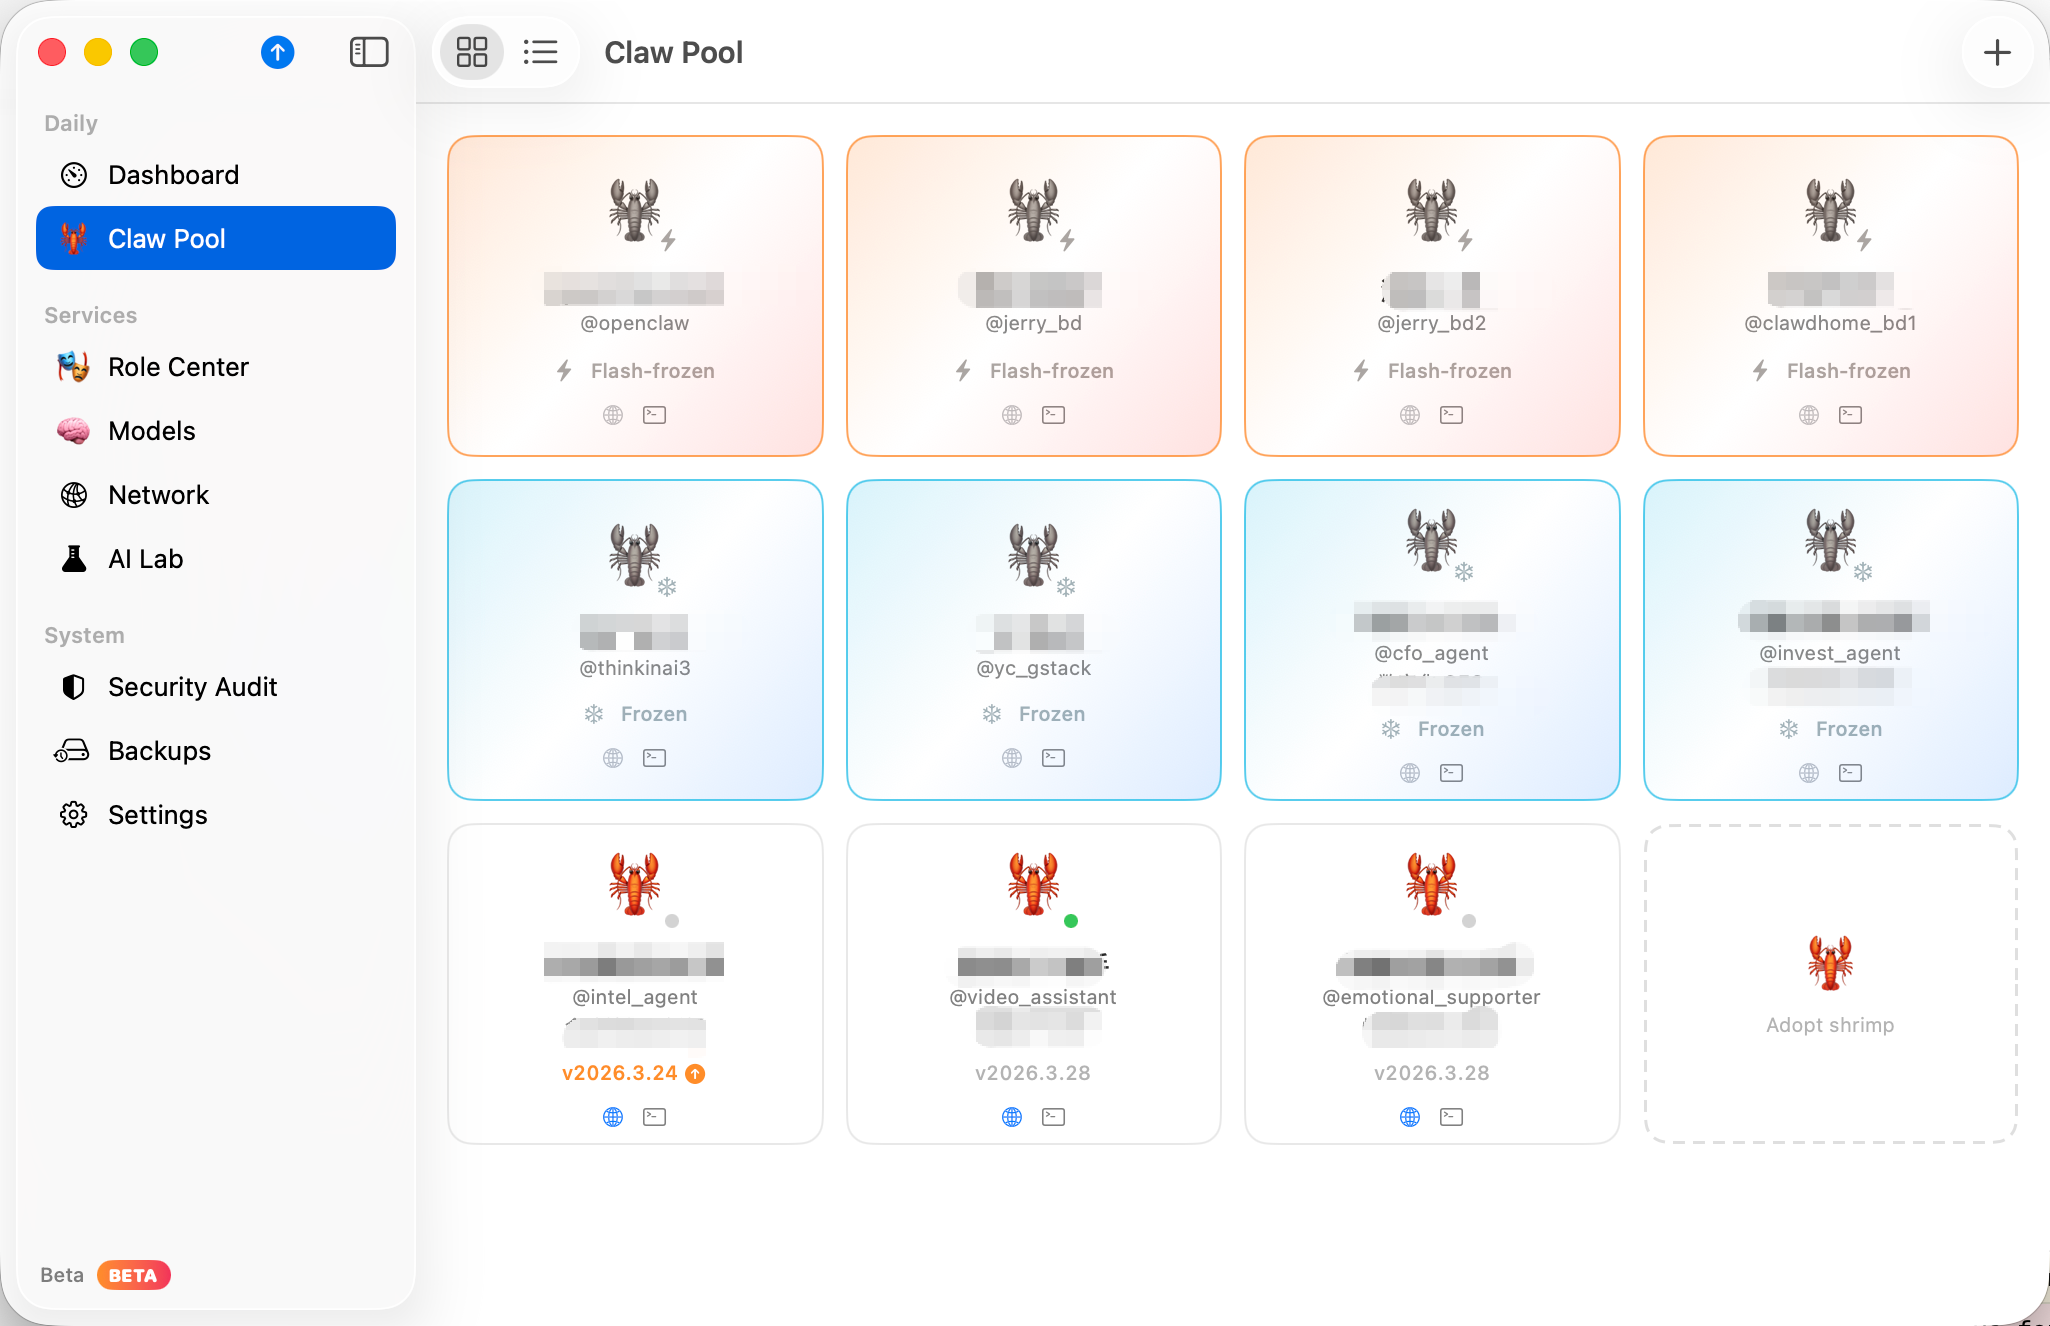
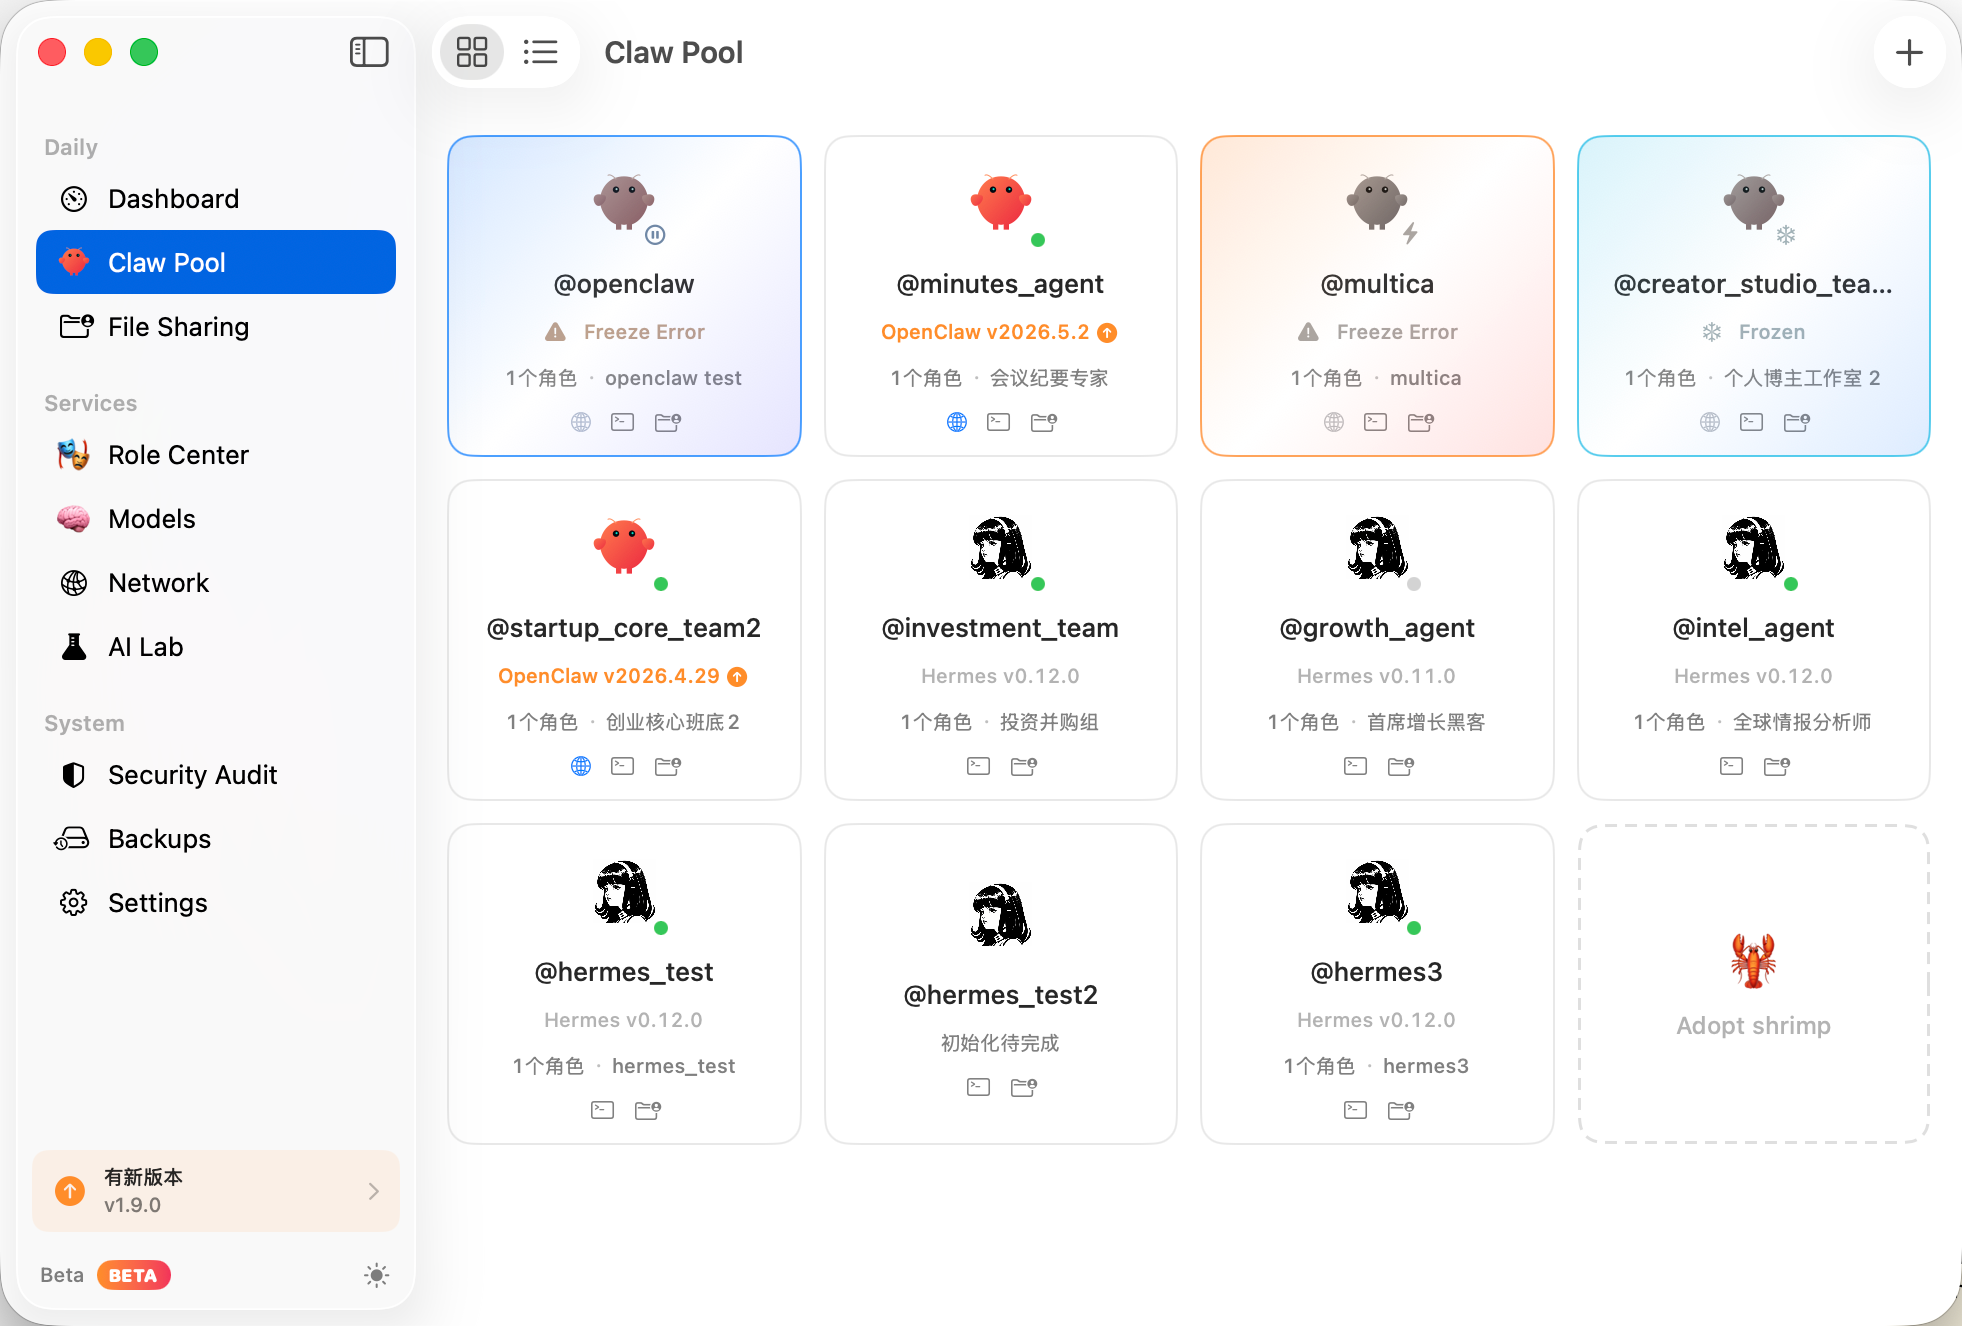
docs(readme): 更新 README 定位为多 Agent 安全管控台，增加双引擎/适用场景/亮点描述

diff --git a/README.md b/README.md
@@ -7,9 +7,9 @@
 
 English | [中文](README.zh.md)
 
-> Native macOS control plane for securely running and managing multiple isolated OpenClaw gateway instances on a single Mac.
+> Multi-Agent security console for macOS — run an entire AI Agent team safely on a single Mac.
 
-ClawdHome is built for people who want one machine to host multiple OpenClaw "Shrimps" without mixing identities, data, permissions, or operational risk. It combines a SwiftUI admin app, a privileged XPC helper daemon, and macOS multi-user isolation into a single workflow for setup, monitoring, cloning, maintenance, and recovery.
+ClawdHome lets you run multiple independent AI Agent instances on one Mac — supporting both OpenClaw and Hermes Agent engines — with each instance isolated in its own macOS user account, runtime, data directory, and permission boundary. A single SwiftUI control panel backed by a privileged XPC helper daemon covers initialization, monitoring, backup, model configuration, and IM channel onboarding, with no shell scripting required.
 
 Website: [clawdhome.app](https://clawdhome.app)  
 Downloads: [GitHub Releases](https://github.com/ThinkInAIXYZ/clawdhome/releases)  
@@ -47,41 +47,50 @@ Changelog: [English](CHANGELOG.en.md) | [中文](CHANGELOG.zh.md)
 
 ## Why ClawdHome
 
-- Real isolation: each Shrimp maps to its own macOS user account, runtime context, data, and permission boundary.
-- Safer privilege model: system-level actions are routed through an explicit XPC helper instead of ad-hoc shell flows inside the UI app.
-- Faster iteration: clone an existing Shrimp for experiments, rehearsal, or regression checks, then promote what works.
-- Native Mac fit: uses macOS user and process primitives instead of heavier VM or container workflows for this class of desktop automation.
-- Unified operations: manage onboarding, gateway lifecycle, files, logs, processes, config, and diagnostics from one place.
+Most multi-Agent setups are either too weak (Chrome profiles share a single macOS user account — credentials and cookies are readable across profiles) or too heavy (VMs and Docker cannot run macOS-native desktop apps). ClawdHome fills the gap: **strong isolation with low operational overhead**.
+
+- **Real isolation, enforced by the OS kernel**: each Shrimp is a separate macOS user account. Processes, files, Keychain entries, and network policies are separated at the kernel level. If one Agent is compromised, its blast radius stops at its own UID boundary.
+- **Safer privilege model**: the UI never executes privileged operations directly. All system-level actions go through an explicit XPC helper (LaunchDaemon) with a typed, auditable call surface.
+- **Dual-engine coexistence**: run OpenClaw and Hermes Agent side-by-side on the same Mac, each independently configured, sharing a common API key store and backup system.
+- **Unified operations**: initialization wizard, gateway lifecycle, file management, diagnostics, config hot-reload, backup/restore, and Cron tasks all live in one panel — no custom scripts, no manual launchd wiring.
+- **Local-first, compliance-friendly**: all core features work offline. Data never leaves the machine unless you opt in to cloud services, which suits regulated industries with data residency requirements.
 
 ## Highlights
 
-- Run multiple OpenClaw gateway instances on one Mac with clear per-instance boundaries.
-- Guided onboarding for new Shrimps, including channel-specific setup flows such as WeChat pairing.
-- Clone an existing Shrimp into a new isolated account for low-risk testing and rollout rehearsal.
-- Gateway lifecycle management with health visibility and watchdog-based recovery.
-- Built-in tools for files, sessions, processes, logs, and maintenance operations.
-- Model and provider configuration from the app, including direct model setup and Role Market-based presets.
-- Local AI operations support, including integration hooks for local model services where configured.
-- English and Chinese localization based on `Stable.xcstrings`.
+- **Dual-engine multi-Agent**: manage OpenClaw + Hermes Agents from a single panel. Each Shrimp supports multiple Agents, each with its own identity, model config, and IM binding.
+- **Role Market and Skills Store**: summon a preconfigured Agent team from the Role Market with one click; extend capabilities via the Skills Store without starting from scratch.
+- **13+ IM channels out of the box**: WeChat, Feishu, Telegram, Slack, WeCom, DingTalk, WhatsApp, email, and more — pair by QR scan or token form, unified channel directory maintained in one place.
+- **All-in-one operations panel**: health monitoring, watchdog auto-recovery, maintenance terminal, and an integrated diagnostics center covering environment, permissions, config, security, gateway, and network.
+- **Layered backup and restore**: per-Shrimp or global backups, restorable to any point in time.
+- **Centralized model and provider management**: API keys stored in an isolated Keychain, apply a model profile to multiple Agents in one action, supports custom providers and local model services.
+- **English and Chinese localization**: built on `Stable.xcstrings`, language follows the system setting.
+
+## Who It's For
+
+**AI studios and independent builders**: run Agents for multiple clients on one Mac, each client's credentials and data physically separated. Watchdog keeps things running around the clock; backups give you a paper trail when clients ask for evidence.
+
+**Enterprise IT and compliance teams**: fully on-premise deployment, no data leaves the machine by default. Gateway logs and config changes are traceable, fitting financial, medical, and legal scenarios with data sovereignty and audit requirements.
+
+**Developers and technical creators**: clone an existing Shrimp as an experiment sandbox, test freely, delete when done — the main environment stays clean. Use a dedicated demo Shrimp for livestreams so your real API keys never appear on screen.
 
 ## Architecture
 
 ```text
 ClawdHome.app (SwiftUI admin UI)
   -> XPC -> ClawdHomeHelper (privileged LaunchDaemon)
-      -> per-user OpenClaw gateway instances
+      -> per-user OpenClaw / Hermes Agent instances
 ```
 
 - `ClawdHome.app` is the operator-facing control plane for status, setup, and day-to-day maintenance.
 - `ClawdHomeHelper` is the privileged boundary for user management, process control, file operations, installs, and system automation.
-- Each Shrimp runs as a separate macOS user with its own OpenClaw runtime and data.
+- Each Shrimp runs as a separate macOS user with its own Agent runtime and data directory.
 
 ## Security Model
 
-- Privileged operations stay inside the helper boundary.
+- Privileged operations stay inside the helper boundary; the UI layer executes no system commands directly.
 - Sensitive actions use explicit XPC methods rather than arbitrary shell paths.
 - Ownership and permission repair are built into important lifecycle workflows.
-- Runtime resources are separated per Shrimp to reduce blast radius and accidental cross-contamination.
+- Runtime resources are separated per Shrimp to contain the blast radius of any single instance.
 
 ## Quick Start
 
@@ -188,7 +197,7 @@ release-notes/      generated release-note drafts
 - [ ] External key management with an exec-based secrets provider
 - [ ] Finer-grained network access control management
 - [ ] Simpler setup for more model providers and IM channels
-- [ ] Better local small-model workflows and OpenClaw integration
+- [ ] Better local small-model workflows and Agent integration
 - [ ] Stronger rescue and diagnostics capabilities
 - [ ] Better gateway probing and historical health tracking
 - [ ] More production-ready signed and notarized distribution workflows

diff --git a/README.zh.md b/README.zh.md
@@ -7,9 +7,9 @@
 
 [English](README.md) | 中文
 
-> 面向 macOS 的原生控制平面，用一台 Mac 安全地运行、隔离并管理多个 OpenClaw gateway 实例。
+> macOS 上的多 Agent 安全管控台 —— 让一台 Mac 安全地养一支 AI Agent 团队。
 
-ClawdHome 适合那些希望在一台机器上托管多只 OpenClaw “虾”，但又不希望身份、数据、权限和运维风险混在一起的人。它把 SwiftUI 管理应用、特权 XPC helper daemon 和 macOS 多用户隔离机制组合成一个完整工作流，用于初始化、监控、克隆、维护和恢复。
+ClawdHome 让你在一台 Mac 上同时运行多个独立的 AI Agent 实例（支持 OpenClaw 和 Hermes Agent 双引擎），每个实例拥有独立的 macOS 用户账号、运行时、数据和权限边界。一个统一的 SwiftUI 控制面板配合特权 XPC helper daemon，覆盖 Agent 的初始化、监控、备份、模型配置和 IM 渠道接入，从启动到运维不需要手写脚本。
 
 官网：[clawdhome.app](https://clawdhome.app)  
 下载：[GitHub Releases](https://github.com/ThinkInAIXYZ/clawdhome/releases)  
@@ -47,41 +47,50 @@ ClawdHome 适合那些希望在一台机器上托管多只 OpenClaw “虾”，
 
 ## 为什么是 ClawdHome
 
-- 真隔离：每只虾对应独立的 macOS 用户、运行时、数据目录和权限边界。
-- 更安全的特权模型：系统级操作全部走显式 XPC helper，而不是在 UI 里临时拼 shell。
-- 更快的试错节奏：可以克隆已有虾做实验、演练和回归验证，再把可行方案沉淀下来。
-- 更适合 Mac 原生场景：相比虚拟机或容器，这类桌面自动化和系统交互工作流更适合直接利用 macOS 多用户能力。
-- 运维入口统一：初始化、网关生命周期、文件、日志、进程、配置和诊断集中在一个界面里处理。
+市场上多 Agent 管理方案要么太轻（Chrome 多 Profile 共享同一个系统账号，密钥和 Cookie 互相能读），要么太重（虚拟机 / Docker 跑不动 macOS 桌面应用）。ClawdHome 占据的是一个当前明显缺位的象限：**强隔离 + 低运维**。
+
+- **真隔离，不是应用层假装**：每只 Shrimp 是独立 macOS 用户，进程、文件、Keychain、网络走系统内核强制边界。一个 Agent 被攻陷，其他 Agent 的密钥和 Cookie 物理读不到。
+- **更安全的特权模型**：UI 永远不直接执行特权操作；所有系统级动作经过显式 XPC helper（LaunchDaemon），调用链可审计、可限权。
+- **双引擎并存**：同一台 Mac 可以同时运行 OpenClaw 和 Hermes Agent，每套引擎独立配置，共享 API Key 管理和备份系统。
+- **运维入口统一**：初始化向导、网关生命周期、文件管理、诊断、配置热加载、备份恢复和 Cron 任务都在一个面板里处理，不用写脚本，不用配 launchd。
+- **本地为先，合规友好**：所有核心功能离线可用，数据不强制出境，适合有数据主权要求的场景。
 
 ## 核心亮点
 
-- 在一台 Mac 上隔离运行多只 OpenClaw gateway，并保持清晰的实例边界。
-- 为新虾提供引导式初始化流程，支持微信等渠道的配对接入。
-- 可以从已有虾克隆出新的隔离账号，用于低风险测试和发布演练。
-- 提供网关生命周期管理、健康状态可视化，以及 watchdog 异常恢复能力。
-- 内置文件、会话、进程、日志和维护工具，减少手工运维动作。
-- 可直接在应用内配置模型与 provider，也支持通过 Role Market 采用预设方案。
-- 支持本地 AI 运维集成，可在已配置环境下接入本地模型服务。
-- 基于 `Stable.xcstrings` 提供中英文双语本地化。
+- **双引擎多 Agent**：同一面板管理 OpenClaw + Hermes Agent，单 Shrimp 内支持多 Agent，每个 Agent 独立身份、模型和 IM 绑定。
+- **角色市场 / Skills 商店**：一键从角色市场召唤预设 Agent 团队，通过 Skills 商店扩展能力，无需从零配置。
+- **13+ IM 渠道开箱即用**：微信、飞书、Telegram、Slack、企微、钉钉、WhatsApp、邮箱等，扫码或填表单即可配对，渠道目录统一维护。
+- **运维一体面板**：健康监控、watchdog 自动恢复、维护终端、集成诊断中心（环境/权限/配置/安全/Gateway/网络六大模块）。
+- **分层备份与恢复**：支持单 Shrimp 或全局备份，可恢复到任意时间点。
+- **模型与 Provider 集中管理**：集中存储 API Key（Keychain 隔离），一键应用模型方案，支持自定义 Provider 和本地模型服务。
+- **中英文双语本地化**：基于 `Stable.xcstrings`，界面语言随系统切换。
+
+## 适合谁
+
+**AI 工作室 / 独立创业者**：在一台 Mac 上同时服务多个客户，每个客户的 Agent 物理隔离，互不污染。watchdog 24×7 守护，备份有据可查，客户要演示直接打开面板。
+
+**企业 IT / 合规团队**：本地全闭环部署，数据不出境，Gateway 日志和配置变更可追溯，适合金融、医疗、法律等对数据主权和审计有要求的场景。
+
+**独立开发者 / 技术博主**：克隆现有 Shrimp 创建实验沙盒，测完直接删，不污染主环境。直播演示时用独立 Shrimp，不会暴露自己的 API Key。
 
 ## 架构概览
 
 ```text
 ClawdHome.app（SwiftUI 管理界面）
   -> XPC -> ClawdHomeHelper（特权 LaunchDaemon）
-      -> 按用户隔离的 OpenClaw gateway 实例
+      -> 按用户隔离的 OpenClaw / Hermes Agent 实例
 ```
 
 - `ClawdHome.app` 是面向操作者的控制平面，负责状态展示、初始化和日常运维。
 - `ClawdHomeHelper` 是特权边界，负责用户管理、进程控制、文件操作、安装和系统级自动化。
-- 每只虾都作为独立 macOS 用户运行，拥有各自的 OpenClaw 运行时与数据。
+- 每只 Shrimp 作为独立 macOS 用户运行，拥有独立的 Agent 运行时与数据目录。
 
 ## 安全模型
 
-- 特权操作集中在 helper 边界内。
+- 特权操作集中在 helper 边界内，UI 层不执行任何系统级命令。
 - 敏感动作通过显式 XPC 方法完成，而不是任意 shell 调用。
 - 关键生命周期流程内置归属和权限修复逻辑。
-- 运行时资源按虾隔离，降低相互污染和误操作的影响范围。
+- 运行时资源按 Shrimp 隔离，一个实例出问题不扩散到其他实例。
 
 ## 快速开始
 
@@ -188,7 +197,7 @@ release-notes/      发布说明草稿
 - [ ] 接入基于 exec 的外部密钥管理方案
 - [ ] 更细粒度的网络访问控制管理
 - [ ] 简化更多模型 provider 与 IM 渠道的配置流程
-- [ ] 强化本地小模型工作流与 OpenClaw 集成
+- [ ] 强化本地小模型工作流与 Agent 集成
 - [ ] 增强救援与诊断能力
 - [ ] 优化 gateway 探测与历史健康追踪
 - [ ] 完善更生产级的签名与公证分发流程
